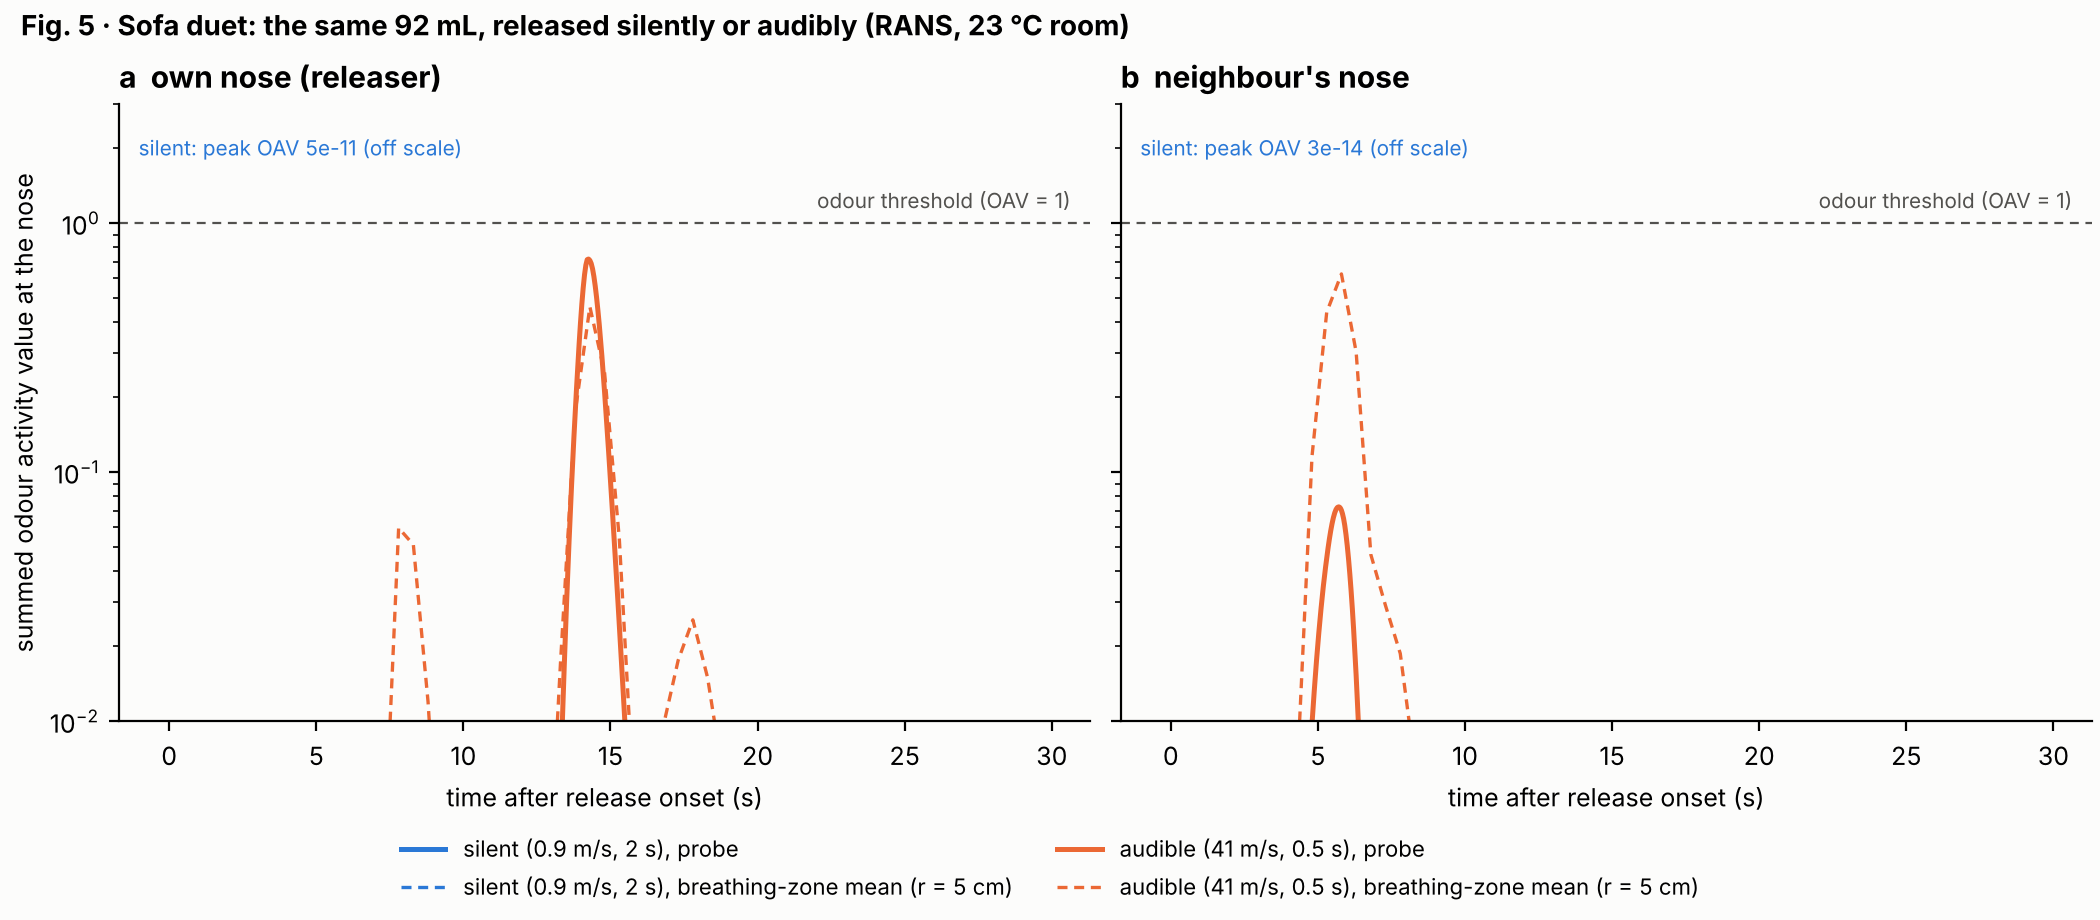
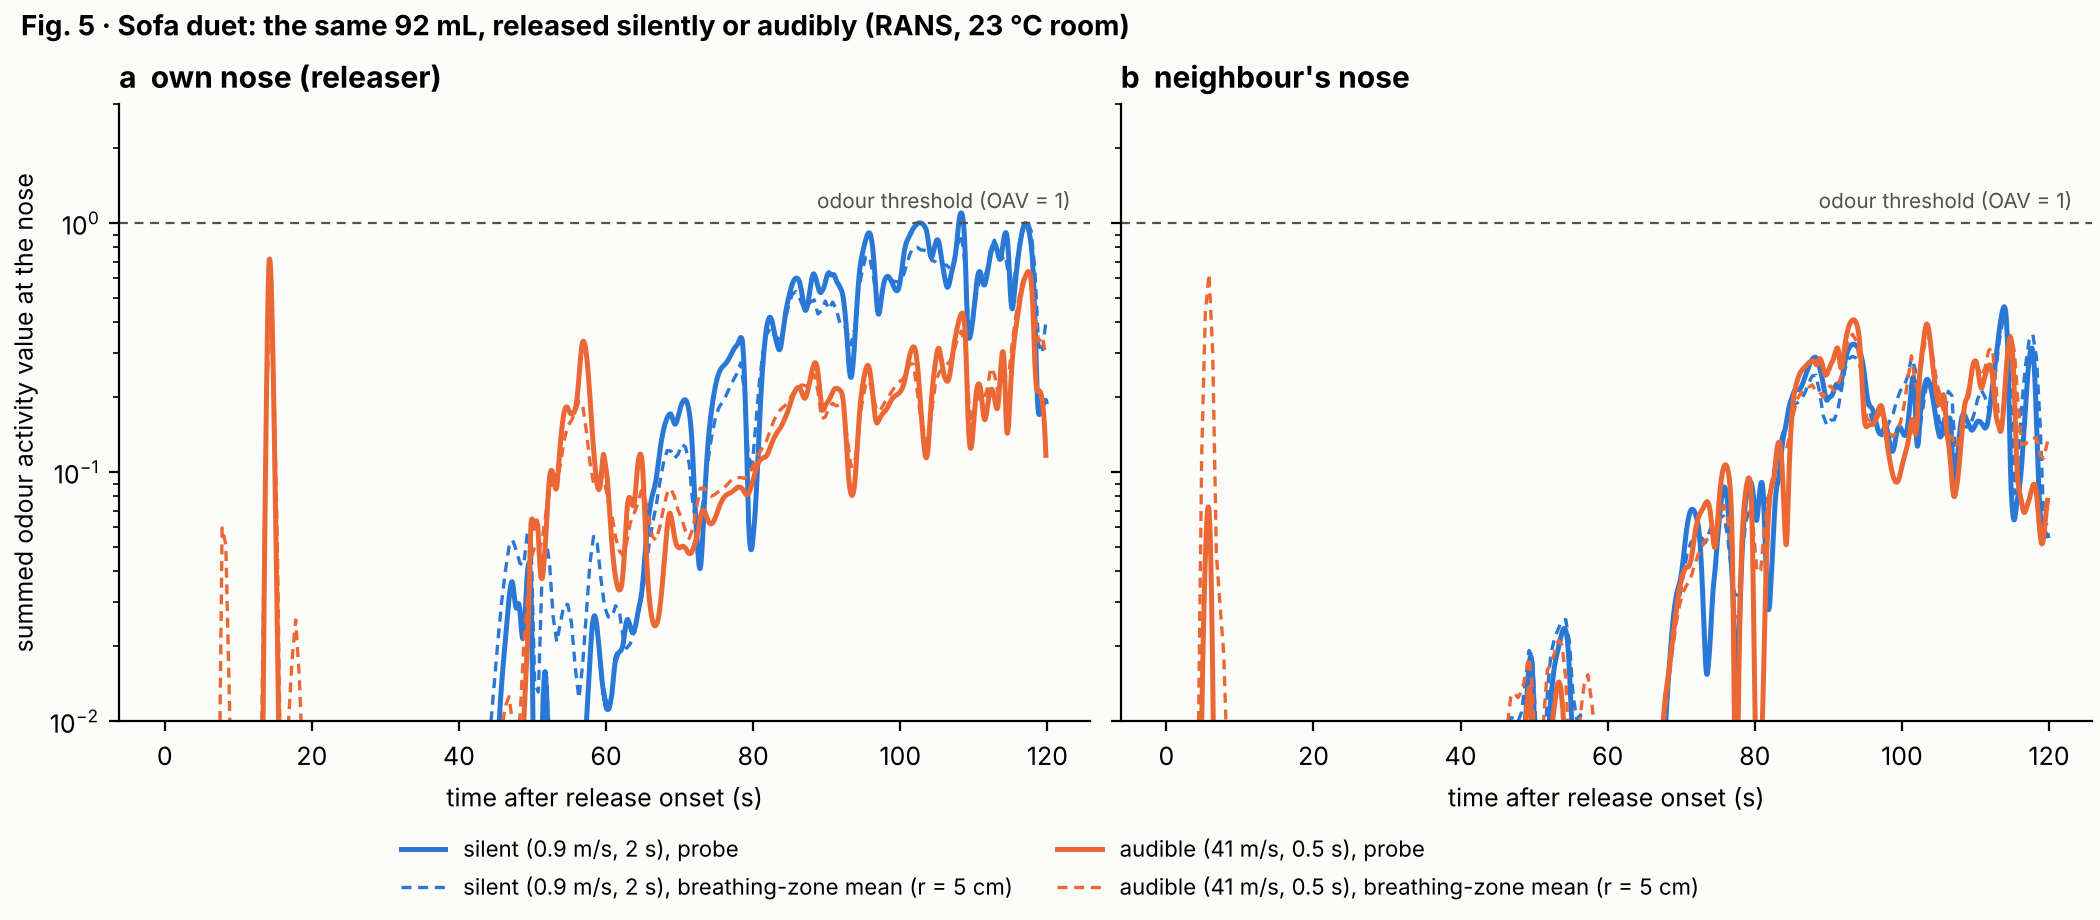
M4: 120 s window; release mode is forgotten after room recirculation
Upright branches continued to 120 s. Direct pass (<45 s) unchanged: silent
misses both noses. From ~45 s both clouds return from the ceiling; after
~70 s the neighbour's traces coincide (worst breath 0.39 each, Theorem 2);
the releaser sees silent 1.5-2x audible, touching OAV ~1 near 100 s.
analyze_sofa.py --window reproduces the 30 s direct-pass numbers.
Manuscript sections updated accordingly.

Claude-Session: https://claude.ai/code/session_0131NedNevRvPP7dQji5Ca7Y

diff --git a/cfd/cases/sofa/analyze_sofa.py b/cfd/cases/sofa/analyze_sofa.py
@@ -8,7 +8,9 @@ Metrics per nose: peak OAV, arrival time (first OAV >= 1), time above OAV 1, exp
 OAV (sinusoidal breathing, Wysocki 2006; mean and max over 24 breathing phases). R = silent / audible for each metric.
 Writes cfd/cases/sofa/results.json and figures/fig5_sofa_duet_noses.png. With --recline DEG (posture sensitivity,
 run_sofa.sh [runs_dir] DEG) it reads sofa_rec<DEG>_{silent,audible}, moves the releaser's breathing zone and head axis
-with the reclined head, and writes results_rec<DEG>.json and figures/figS_sofa_rec<DEG>_noses.png.
+with the reclined head, and writes results_rec<DEG>.json and figures/figS_sofa_rec<DEG>_noses.png. With --window W
+only the first W s after release onset are used and the output names get a _W<W>s suffix (e.g. the 30 s direct pass of
+runs later extended to 120 s by extend_window.sh).
 Usage: python3 analyze_sofa.py [runs_dir] [--recline DEG]
 """
 import argparse
@@ -105,7 +107,7 @@ def metrics(t, s):
             "worst_breath_OAV_mean": oav(wb_mean, P), "worst_breath_OAV_max": oav(wb_max, P)}
 
 
-def main(runs: Path, recline: float = 0.0):
+def main(runs: Path, recline: float = 0.0, window: float | None = None):
     res, series = {}, {}
     prefix = "sofa" if not recline else f"sofa_rec{recline:g}"
     for mode in ("silent", "audible"):
@@ -114,8 +116,11 @@ def main(runs: Path, recline: float = 0.0):
             print("missing", case)
             continue
         t, s = read_probe(case)
-        res[mode] = {NOSES[i]: metrics(t, s[:, i]) for i in range(2)}
         tz, bz, ring = zone_series(case, recline=recline)
+        if window is not None:
+            k, kz = t <= T_REL + window + 1e-9, tz <= T_REL + window + 1e-9
+            t, s, tz, bz, ring = t[k], s[k], tz[kz], bz[kz], ring[kz]
+        res[mode] = {NOSES[i]: metrics(t, s[:, i]) for i in range(2)}
         series[mode] = (t, s, tz, bz)
         for i in range(2):
             res[mode][NOSES[i]].update({
@@ -130,13 +135,14 @@ def main(runs: Path, recline: float = 0.0):
                           "bz_peak_OAV", "bz_exposure_s_dt", "head_ring_peak_OAV")}
             for n in NOSES}
     res["recline_deg"] = recline
-    tag = "" if not recline else f"_rec{recline:g}"
+    res["window_s"] = window if window is not None else float(max(series[m][0][-1] for m in series) - T_REL)
+    tag = ("" if not recline else f"_rec{recline:g}") + ("" if window is None else f"_W{window:g}s")
     (ROOT / f"cfd/cases/sofa/results{tag}.json").write_text(json.dumps(res, indent=1))
     print(json.dumps(res, indent=1))
-    plot(series, recline)
+    plot(series, recline, tag)
 
 
-def plot(series, recline: float = 0.0):
+def plot(series, recline: float = 0.0, tag: str = ""):
     SURFACE, INK2 = "#fcfcfb", "#52514e"
     COL = {"silent": "#2a78d6", "audible": "#eb6834"}
     plt.rcParams.update({"figure.facecolor": SURFACE, "axes.facecolor": SURFACE, "font.size": 9,
@@ -158,8 +164,9 @@ def plot(series, recline: float = 0.0):
         if "silent" in series:
             t, s, tz, bz = series["silent"]
             peak = oav(float(max(s[:, i].max(), bz[:, i].max(), 0.0)), P)
-            ax.text(0.02, 0.95, f"silent: peak OAV {peak:.0e} (off scale)", transform=ax.transAxes, fontsize=7.5, va="top",
-                    color=COL["silent"])
+            if peak < 1e-2:
+                ax.text(0.02, 0.95, f"silent: peak OAV {peak:.0e} (off scale)", transform=ax.transAxes, fontsize=7.5,
+                        va="top", color=COL["silent"])
         ax.set_xlabel("time after release onset (s)")
         ax.set_title(f"{'ab'[i]}  {NOSES[i]}", loc="left")
     axes[0].set_ylabel("summed odour activity value at the nose")
@@ -170,6 +177,8 @@ def plot(series, recline: float = 0.0):
     if recline:
         title = f"Fig. S · Sofa duet, releaser reclined {recline:g}° (back closed onto the backrest): same 92 mL"
         out = f"figS_sofa_rec{recline:g}_noses.png"
+    if "_W" in tag:
+        out = out.replace(".png", tag[tag.index("_W"):] + ".png")
     fig.suptitle(title, x=0.01, ha="left", fontsize=10, fontweight="bold")
     fig.savefig(ROOT / "figures" / out, dpi=200)
 
@@ -178,5 +187,6 @@ if __name__ == "__main__":
     ap = argparse.ArgumentParser()
     ap.add_argument("runs", nargs="?", default=str(ROOT / "cfd/runs"))
     ap.add_argument("--recline", type=float, default=0.0)
+    ap.add_argument("--window", type=float, default=None, help="use only the first W s after release onset")
     a = ap.parse_args()
-    main(Path(a.runs), a.recline)
+    main(Path(a.runs), a.recline, a.window)

diff --git a/manuscript/preprint/sections/results.tex b/manuscript/preprint/sections/results.tex
@@ -94,8 +94,19 @@ release then leaves the seat-level wedge sideways and still rises behind the hea
 detectable dose. The audible jet now wraps around the releaser's face, exceeding threshold at their own nose (OAV
 2--4).
 
-In both postures the breathing-zone ratio is $R \approx 10^{-11}$--$10^{-14}$
-\src{cfd/cases/sofa/m4\_report.md}. \gap{120 s window result}
+In both postures the breathing-zone ratio during this direct pass is $R \approx 10^{-11}$--$10^{-14}$
+\src{cfd/cases/sofa/m4\_report.md}.
+
+\emph{Longer window.} Extending the upright case to 120\,s shows what happens after the direct pass. Both clouds
+reach the ceiling, come back down through the room and arrive at both noses from about 45\,s on.
+\begin{itemize}
+  \item After about 70\,s the silent and audible traces at the neighbour are indistinguishable (worst breath 0.39
+  for both). The release mode has been forgotten, as Theorem~2 requires.
+  \item At the releaser's own nose the mixed silent cloud runs 1.5--2 times higher. It touches the trained-panel
+  threshold for about a second near 100\,s.
+\end{itemize}
+These late, room-mixed levels are 10--23 times below the thresholds of an untrained observer, and they arrive when the
+release can no longer be attributed to anyone.
 
 \begin{table}
 \caption{Sofa duet: peak breathing-zone OAV within 30\,s of release onset (RANS mean field).}
@@ -114,8 +125,9 @@ neighbour & reclined 4.5\,\textdegree & $3\times10^{-15}$ & 0.19 \\
 
 \begin{figure}
 \includegraphics[width=\textwidth]{fig5_sofa_duet_noses.png}
-\caption{Sofa duet, upright posture: OAV at the releaser's and the neighbour's nose for the same 92\,mL released
-silently or audibly. \gap{caption details}}
+\caption{Sofa duet, upright posture: OAV at the releaser's and the neighbour's nose over 120\,s for the same
+92\,mL released silently or audibly. During the direct pass ($<45$\,s) only the audible release reaches the noses; after
+room recirculation both modes converge. \gap{caption details}}
 \label{fig:sofa}
 \end{figure}
 

diff --git a/manuscript/preprint/sections/discussion.tex b/manuscript/preprint/sections/discussion.tex
@@ -6,7 +6,7 @@ Physics does not support the Silencer conjecture.
 \begin{itemize}
   \item As emitted, a silent passage is stronger at a neighbour's nose in about half of all pairs.
   \item At equal mass its advantage is modest and often imperceptible.
-  \item On a sofa it can be the release that reaches nobody at all.
+  \item On a sofa it can miss both noses on its first pass, returning only once it is mixed into the room.
 \end{itemize}
 The belief is nevertheless held across cultures. Theorem~3 explains why. A passage enters memory if it is heard or
 smelled, so every remembered silent passage was smelled, whereas audible passages are remembered whether or not
@@ -64,7 +64,8 @@ true, and it belongs to the person least likely to report it.
   exceed the mean by an order of magnitude. This matters for sub-threshold audible values, not for silent values
   $10^{-10}$ below threshold.
   \item \emph{Validation bias.} The body plume is 40--56\% too fast.
-  \item \emph{Coverage.} We simulated one release volume, two postures and a 30\,s window. \gap{120 s result}
+  \item \emph{Coverage.} We simulated one release volume and two postures, with a 30\,s direct pass and, for one
+  posture, a 120\,s window in a sealed room without supply air.
   \item \emph{No measurements on people.} We made no human measurements. The orifice diameter, release duration and
   valve threshold are assumptions, covered by the uncertainty analysis.
   \item \emph{Base rate.} The base rate of smelled passages has never been measured. We bracket it from population

diff --git a/manuscript/preprint/sections/abstract.tex b/manuscript/preprint/sections/abstract.tex
@@ -13,7 +13,8 @@ only exception is near-field pre-dilution of loud jets, governed by a velocity r
 Per molecule, a silent release is delivered somewhat more efficiently (median ratio 1.35 at a neighbour), often below
 the olfactory just-noticeable difference. As passages are actually emitted, a silent one is stronger at the
 neighbour's nose in 47\% of pairs. On a sofa, the body's convective boundary layer carries a silent release past both
-noses in two postures, while the audible jet reaches them.
+noses on its first pass, in two postures, while the audible jet reaches them; after a minute of room recirculation the
+two become indistinguishable.
 
 A bystander nevertheless remembers silent passages as worse in 67--92\% of comparisons, because a silent passage
 enters memory only if it was smelled. An emitter, who notices every release, has no such bias.

diff --git a/manuscript/preprint/sections/conclusion.tex b/manuscript/preprint/sections/conclusion.tex
@@ -5,7 +5,7 @@ A silent passage of flatus is not deadlier than an audible one.
 \begin{itemize}
   \item Per molecule it is delivered somewhat more efficiently, mostly by too little to notice.
   \item As actually emitted, it wins half the time.
-  \item On a sofa it may reach no one but the ceiling.
+  \item On a sofa it may reach no one but the ceiling, until the room has mixed it beyond attribution.
 \end{itemize}
 The belief that it is deadlier is real, widespread and old, and it follows from how memory samples events rather than
 from how odour travels. The nose was fooled by the ears.

diff --git a/cfd/cases/sofa/m4_report.md b/cfd/cases/sofa/m4_report.md
@@ -130,3 +130,49 @@ noticeable to the releaser, not less.
 - RANS intermittency;
 - a forward-leaning posture;
 - a different release direction.
+
+## Longer window: 120 s (upright, 2026-10-17)
+
+*Code: `extend_window.sh` (continues both branches from 30 s), `analyze_sofa.py` (all data) and
+`analyze_sofa.py --window 30` (direct pass) · numbers: `results.json` (120 s), `results_W30s.json` (30 s) · figures:
+`figures/fig5_sofa_duet_noses.png` (120 s), `figures/fig5_sofa_duet_noses_W30s.png`*
+
+The 30 s re-analysis reproduces the first-pass breathing-zone numbers exactly. The silent probe values differ at the
+10⁻¹³ level, because the window now ends 0.2 s later.
+
+**Results** (peak over 0–120 s; worst breath = max over breathing phase):
+
+| nose | metric | silent | audible | R |
+|---|---|---|---|---|
+| releaser | breathing-zone peak | 1.0 (108 s) | 0.64 (14 s) | 1.6 |
+| releaser | worst breath | 0.99 | 0.59 | 1.7 |
+| neighbour | breathing-zone peak | 0.42 (114 s) | 0.63 (6 s) | 0.67 |
+| neighbour | worst breath | 0.39 | 0.39 | 1.0 |
+| releaser | breathing-zone exposure (s-integral) | 2.0× audible | | 2.0 |
+| neighbour | breathing-zone exposure | 0.91× audible | | 0.91 |
+
+**Phases.**
+1. **Direct pass (0–45 s).** As before, the silent cloud misses both noses (≤ 10⁻¹⁰), and the audible jet reaches them
+   at sub-threshold levels.
+2. **Return (45–70 s).** Both clouds have reached the ceiling and come back down through the room. Both modes arrive
+   at both noses at OAV 0.01–0.3.
+3. **Mixed room (> 70 s).**
+   - At the neighbour, silent and audible traces are indistinguishable (OAV 0.1–0.4). This is Theorem 2 in action:
+     the release mode is forgotten.
+   - At the releaser's own nose the silent cloud runs ~1.5–2× higher. It touches the trained-panel threshold
+     (OAV ≈ 1) for about 1 s near 100–110 s. The mechanism of this late own-nose excess was not analysed.
+
+**Interpretation.**
+- The 30 s conclusion ("the silent release reaches no nose") is a statement about the **direct pass** only.
+- Within about a minute, room recirculation brings both releases back at comparable, near-threshold levels, as the
+  well-mixed estimate predicts (92 mL × 1.4 × 10⁵ / 25.6 m³ ≈ 0.5).
+- The OAVs here use trained-panel thresholds (Nagata). For a typical untrained observer, thresholds are 10–23×
+  higher, so the late-phase values (≤ 1) would mostly go unnoticed; for a distracted one, almost always.
+- What a bystander could actually notice is the audible direct pass (OAV up to 0.6 in the breathing zone, with RANS
+  intermittency on top). The silent release only becomes faintly detectable once it has been mixed into the room, when
+  its origin can no longer be attributed.
+
+**Caveats.**
+- The room is sealed except for a pressure-relief vent (no supply air).
+- RANS mean field; one realisation.
+- The 30 s precursor flow is assumed to stay statistically steady for two minutes.

diff --git a/NOTES.md b/NOTES.md
@@ -472,3 +472,16 @@ The abstract-only pass was wrong or overstated in several places:
   - TOC graphic, merged validation figure, caption details;
   - 120 s window result (running), survey data citation, Zenodo DOI, acknowledgements, AI disclosure (last).
 - 30 pages in the manuscript layout.
+
+### M4 120 s window (2026-10-17; `extend_window.sh`, `m4_report.md`)
+- Both upright branches were continued from 30 s to 120 s (detached runs; about 1 s of simulated time per minute).
+- **Direct pass (0–45 s):** unchanged; the silent release misses both noses.
+- **Return (45–70 s):** both clouds come back from the ceiling.
+- **After 70 s:** the neighbour sees identical traces (worst breath 0.39 for both; Theorem 2). The releaser sees silent
+  1.5–2× audible, touching OAV ≈ 1 (trained-panel threshold) for ~1 s near 100–110 s.
+- 120 s maxima:
+  - R_bz is 1.6 at the releaser and 0.67 at the neighbour;
+  - R for the worst breath is 1.7 and 1.0;
+  - R for exposure is 2.0 and 0.91.
+- `analyze_sofa.py --window 30` reproduces the first-pass breathing-zone numbers (`results_W30s.json`).
+- Manuscript: results, discussion, abstract and conclusion updated; the gaps closed.
